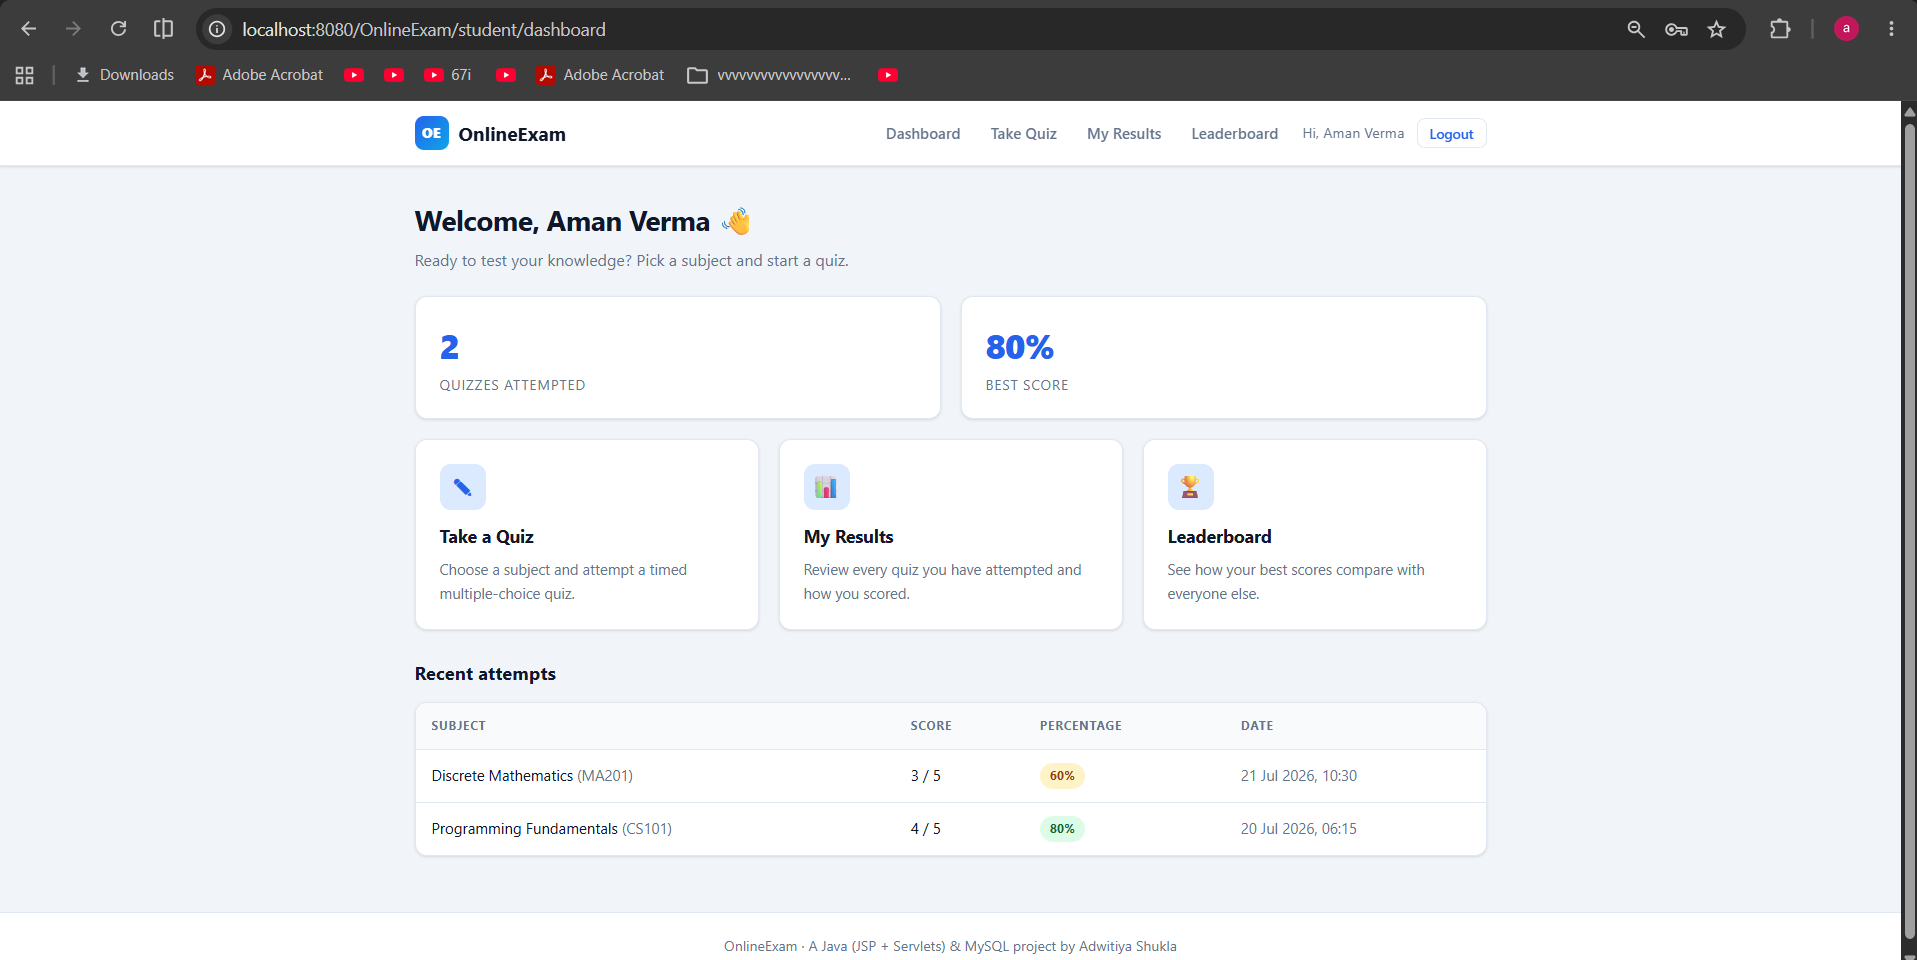
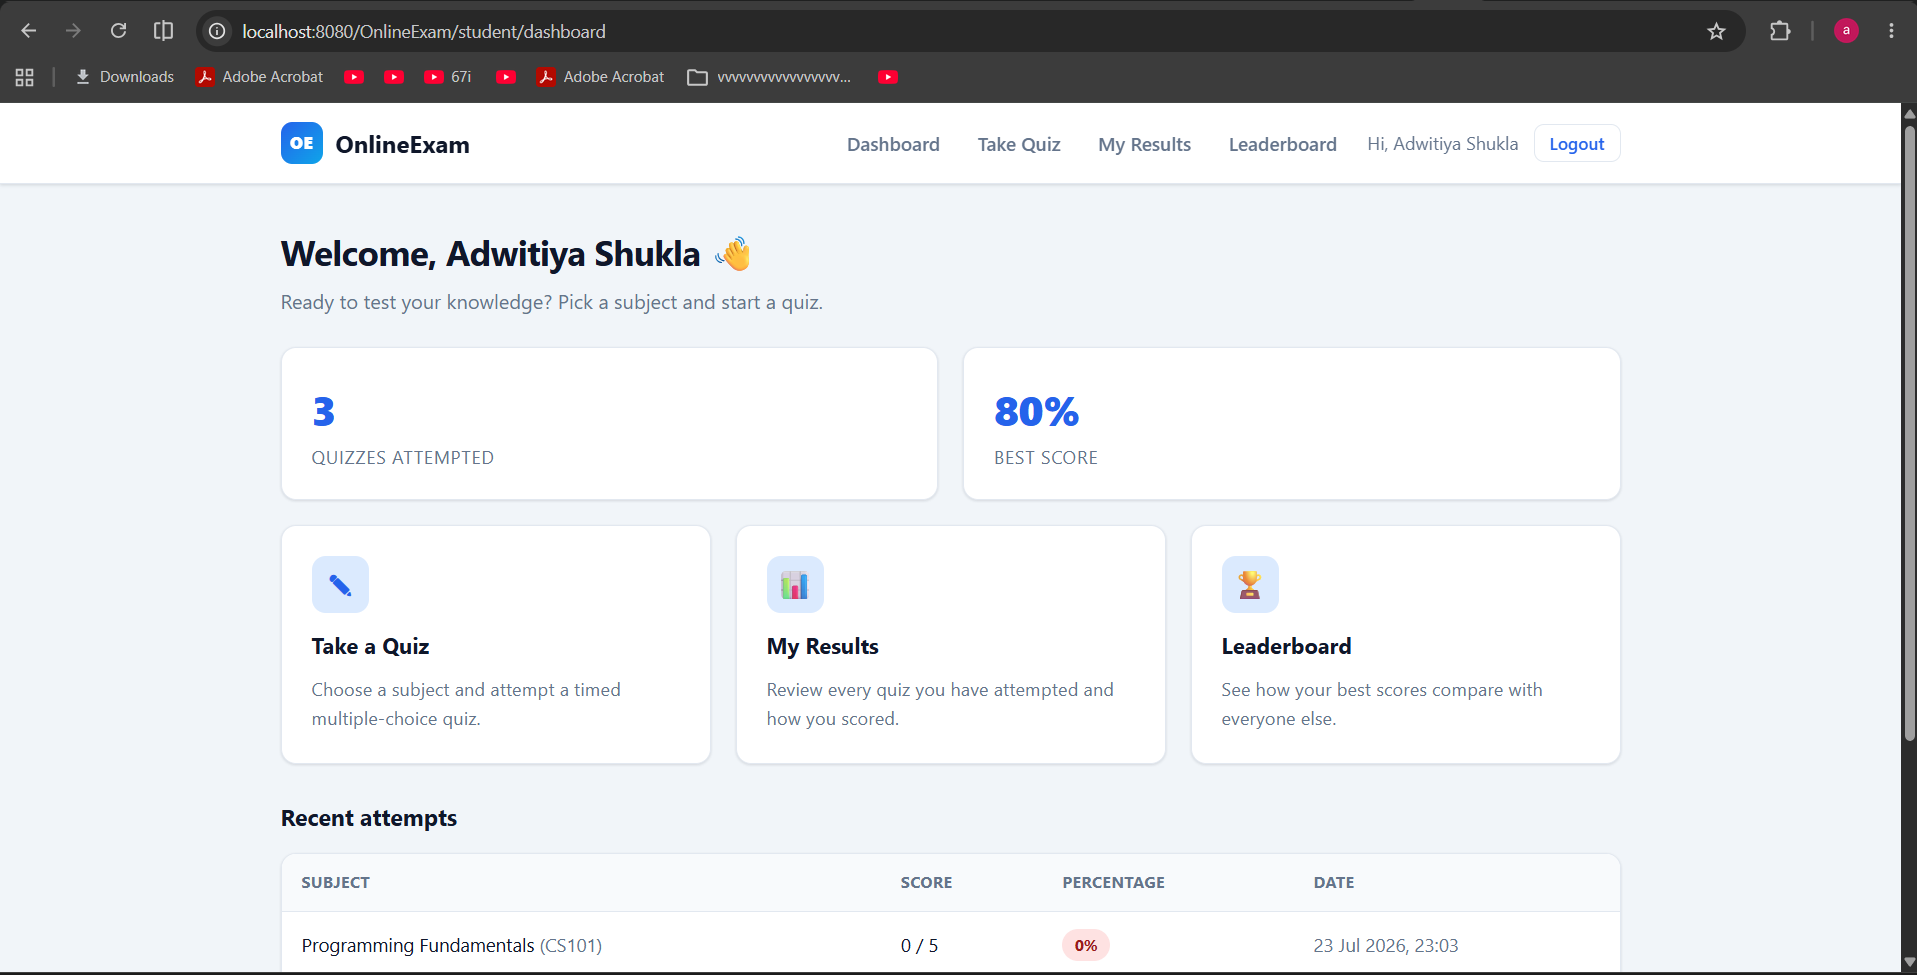
screenshots attached

diff --git a/README.md b/README.md
@@ -25,7 +25,7 @@ students, teachers and admins can track performance on dashboards and a
 
 | Choosing a subject | Timed quiz |
 |---|---|
-| ![Subject picker](screenshots/subject_page.png) | ![Timed quiz](screenshots/test.png) |
+| ![Subject picker](screenshots/subjectchoicepage.png) | ![Timed quiz](screenshots/quiz.png) |
 
 ---
 
@@ -172,7 +172,7 @@ http://localhost:8080/OnlineExam/
 |---------|------------------------|---------------|
 | Admin   | `admin@tiet.edu`       | `Admin@123`   |
 | Teacher | `prof.sharma@tiet.edu` | `Teacher@123` |
-| Student | `aman@tiet.edu`        | `Student@123` |
+| Student | `adwitiya@tiet.edu`        | `Student@123` |
 
 ---
 
